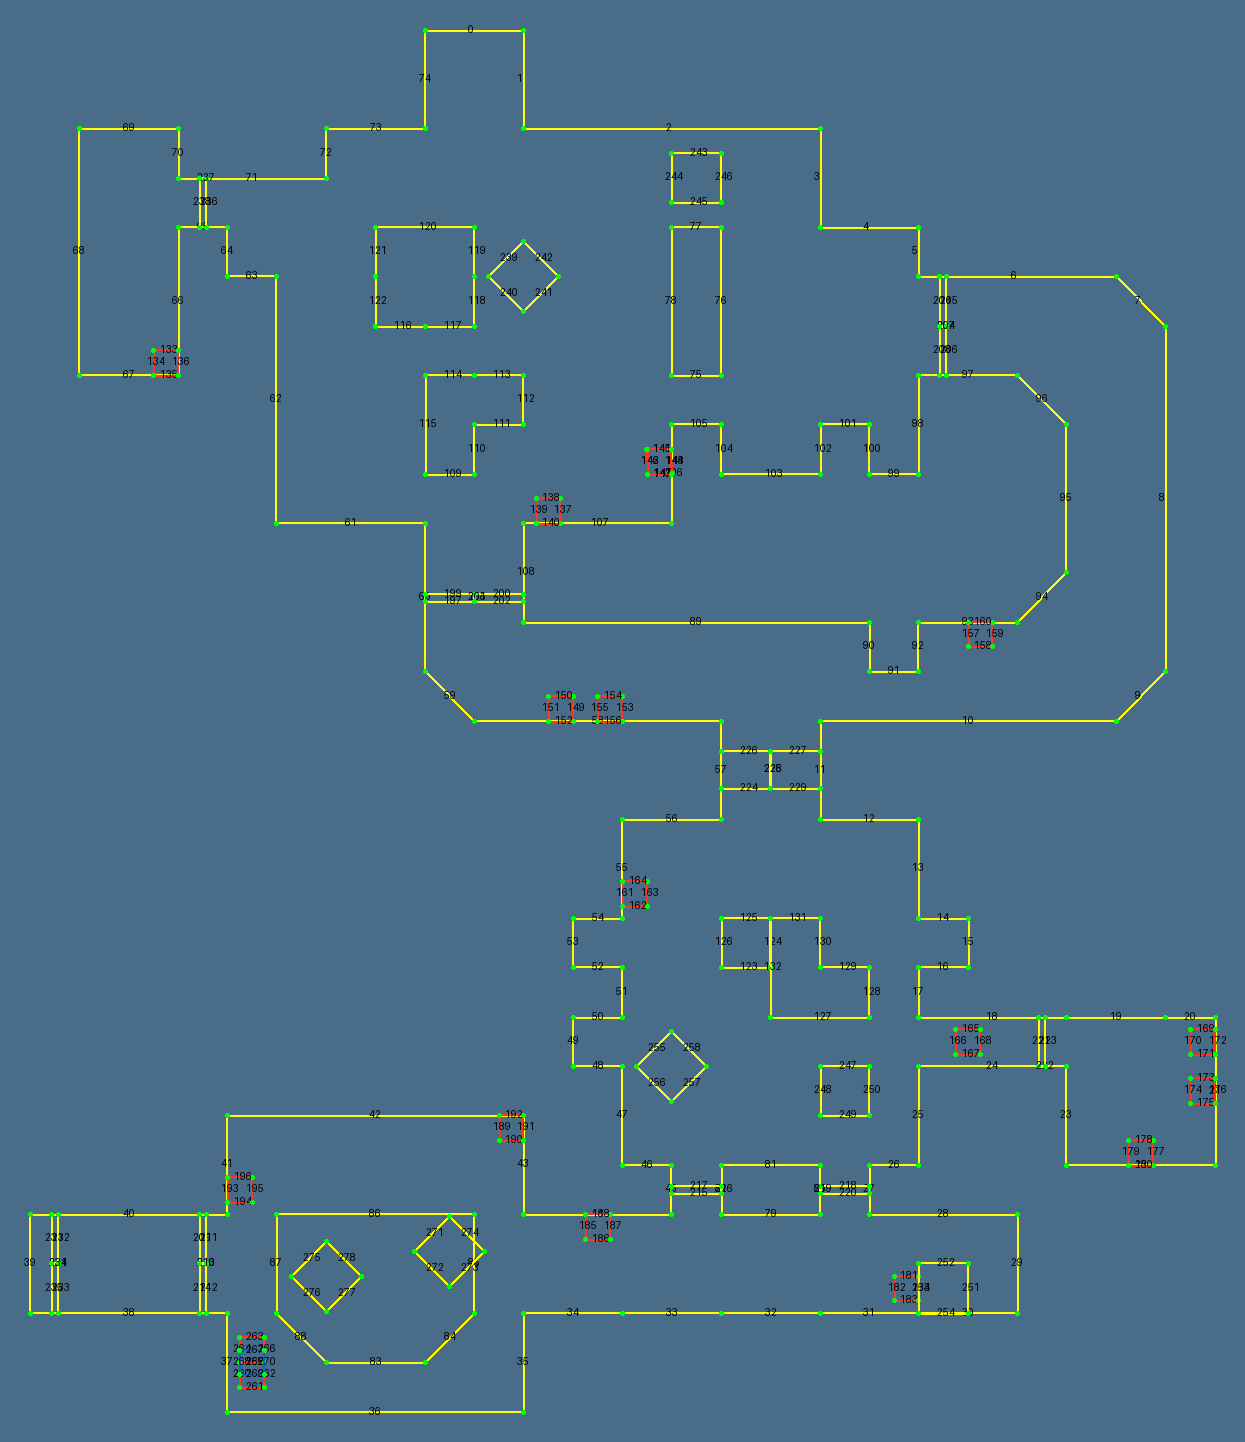
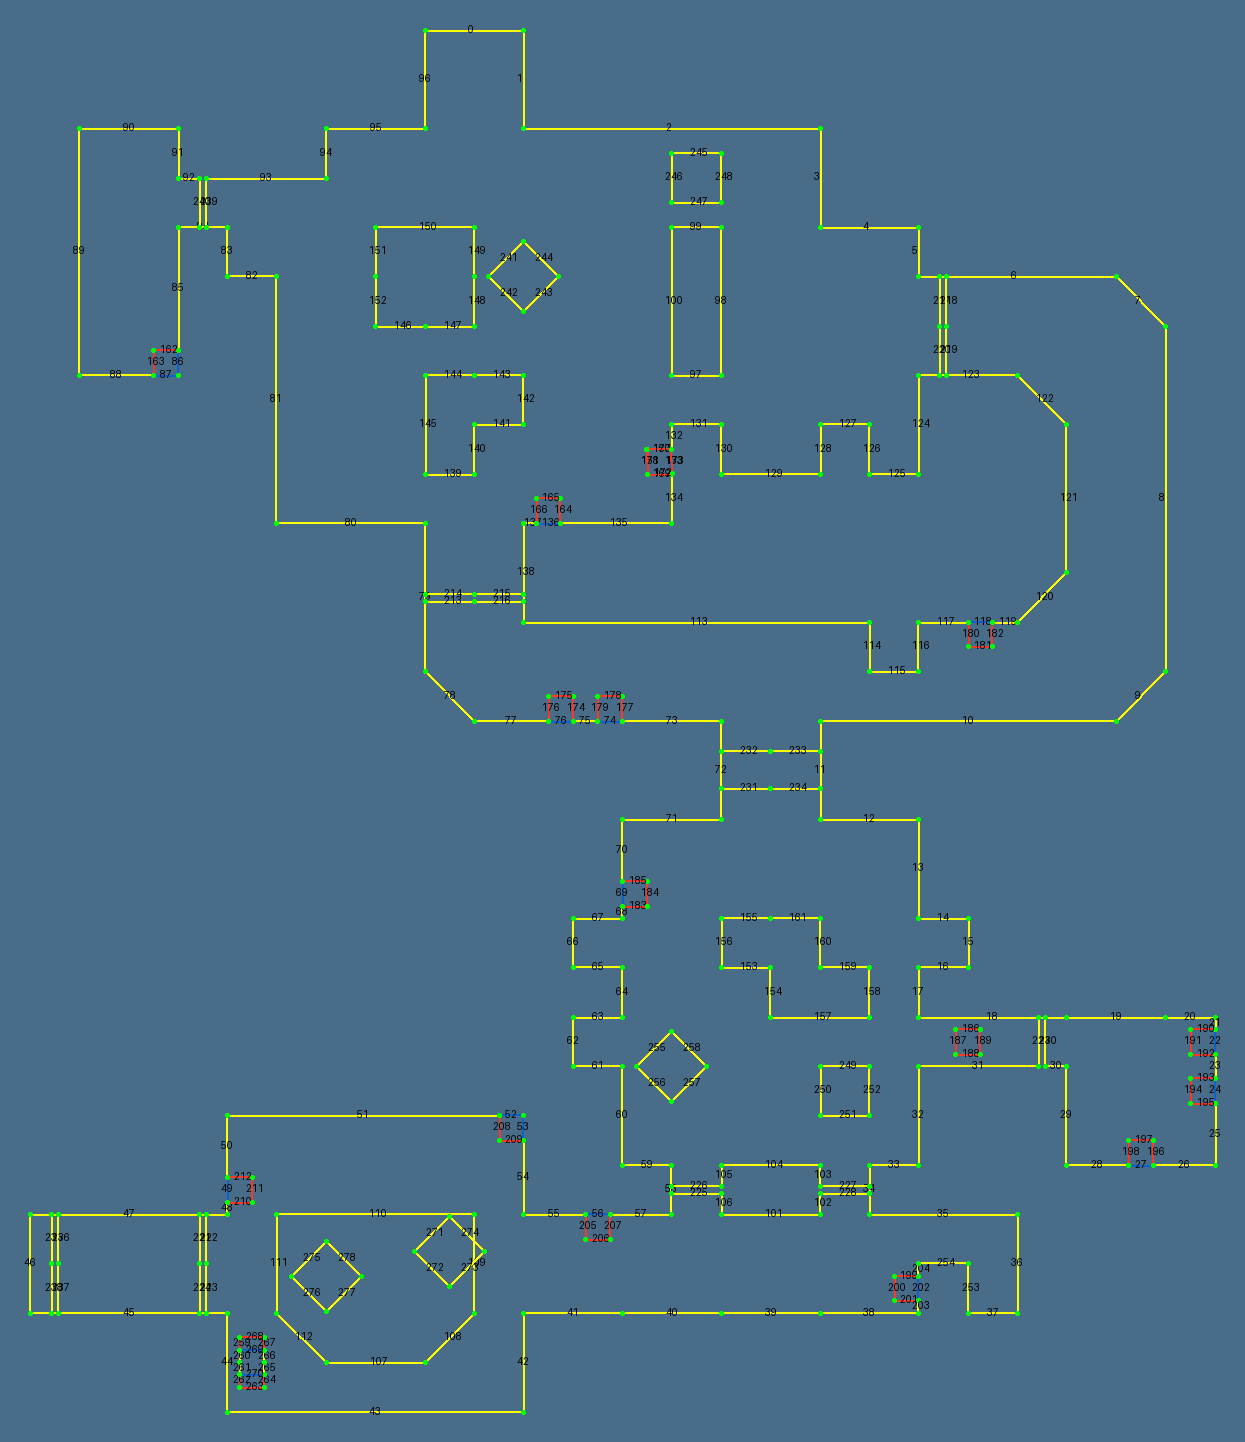
_tuplesToLines fix 1

diff --git a/src/algebraFunctions.py b/src/algebraFunctions.py
@@ -93,29 +93,40 @@ def isInside(xA, yA, xB, yB, xC, yC, xD, yD):
     Returns True if the segment (xA, yA) - (xB, yB) is fully inside the segment (xC, yC) - (xD, yD).
     The segments are assumed to be collinear.
     """
-    return (min(xC, xD) <= xA and xB <= max(xC, xD) and
-            min(yC, yD) <= yA and yB <= max(yC, yD))
+    # Check for horizontal line
+    if yA == yB and yC == yD:
+        return min(xC, xD) <= min(xA, xB) and max(xA, xB) <= max(xC, xD)
+    # Check for vertical line
+    elif xA == xB and xC == xD:
+        return min(yC, yD) <= min(yA, yB) and max(yA, yB) <= max(yC, yD)
+    else:
+        return (min(xC, xD) <= min(xA, xB) and max(xA, xB) <= max(xC, xD) and
+                min(yC, yD) <= min(yA, yB) and max(yA, yB) <= max(yC, yD))
 
 def isAthwart(xA, yA, xB, yB, xC, yC, xD, yD):
     """
     Returns True if the two already collinear segments (xA, yA) - (xB, yB) and (xC, yC) - (xD, yD)
     are "moving" in different directions.
     """
-    return ((xA < xB and xC > xD) or (xA > xB and xC < xD) or
-            (yA < yB and yC > yD) or (yA > yB and yC < yD))
+    # Check for horizontal line
+    if yA == yB and yC == yD:
+        return ((xA < xB and xC > xD) or (xA > xB and xC < xD))
+    # Check for vertical line
+    elif xA == xB and xC == xD:
+        return ((yA < yB and yC > yD) or (yA > yB and yC < yD))
+    else:
+        return ((xA < xB and xC > xD) or (xA > xB and xC < xD) or
+                (yA < yB and yC > yD) or (yA > yB and yC < yD))
 
 
 def test():
-    from drawMap import draw_lines
-    lines = [
-        LineB3D(v1=(10, 10), v2=(10, 13)),
-        LineB3D(v1=(10, 12), v2=(10, 11)),
-    ]
-    # draw_lines(lines, show=True)
-    i = 0
-    j = 1
-    result = resolveSegmentsOverlap(lines[i].v1.x, lines[i].v1.y, lines[i].v2.x, lines[i].v2.y,
-                                    lines[j].v1.x, lines[j].v1.y, lines[j].v2.x, lines[j].v2.y)
-    print(result)
+    oldLine1 = (10, 9, 10, 6)
+    oldLine2 = (10, 7, 10, 8)
+    tuples = [(10, 9, 10, 8), (10, 7, 10, 8), (10, 7, 10, 6)]
+    for tup in tuples:
+        print(isInside(*tup, *oldLine1))
+        print(isInside(*tup, *oldLine2))
+        print(isAthwart(*oldLine1, *oldLine2))
+        print()
 
-# test()
+test()

diff --git a/src/ClassesInterim.py b/src/ClassesInterim.py
@@ -3,6 +3,7 @@ from typing import Any
 from ClassesB3D import MapB3D, CrateB3D, DoorB3D
 from algebraFunctions import resolveSegmentsOverlap, isInside, isAthwart
 from ClassesShared import Vertex, HeightType
+from drawMap import drawMap
 
 
 @dataclass
@@ -19,7 +20,7 @@ class MapInterim:
         for line in mapB3D.lines:
             self.lines.append(LineInterim(v1=line.v1, v2=line.v2, height=line.height, texture=line.texture))
         # self._removeCratesAndDoors(mapB3D.crates, mapB3D.doors)
-        # self._removeOverlaps()
+        self._removeOverlaps()
 
 
     def _removeCratesAndDoors(self, crates: list[CrateB3D], doors: list[DoorB3D]):
@@ -59,7 +60,7 @@ class MapInterim:
                     heights = set([oldLine1.height, oldLine2.height])
                     if heights == set([HeightType.TOP, HeightType.BOTTOM]):
                         if isAthwart(*MapInterim.lineToTuple(oldLine1), *MapInterim.lineToTuple(oldLine2)):
-                            # raise Exception("Athwart TOP and BOTTOM")
+                            raise Exception("Athwart TOP and BOTTOM")
                             pass
                         else:
                             height = HeightType.FULL
@@ -103,7 +104,8 @@ class MapInterim:
                     j += 1
                     continue
                 else:
-                    print(i, j, resolved)
+                    print(i, j, (self.lineToTuple(self.lines[i]), self.lineToTuple(self.lines[j])), "->\n     ", resolved)
+                    # drawMap(self, wait=True)
                     oldLine1 = self.lines[i]
                     oldLine2 = self.lines[j]
                     del self.lines[j]

diff --git a/src/drawMap.py b/src/drawMap.py
@@ -1,8 +1,11 @@
 from PIL import Image, ImageDraw, ImageFont
-from ClassesInterim import MapInterim
 from ClassesShared import HeightType
+from typing import TYPE_CHECKING
+if TYPE_CHECKING:
+    from ClassesInterim import MapInterim
 
-def draw_lines(map: MapInterim, show=True, name=None, resolution=1280, frame=30):
+
+def drawMap(map: 'MapInterim', show=True, name=None, resolution=1280, frame=30, wait=False):
     # Calculate min and max coordinates
     min_x = min(min(line.v1.x, line.v2.x) for line in map.lines)
     max_x = max(max(line.v1.x, line.v2.x) for line in map.lines)
@@ -48,4 +51,5 @@ def draw_lines(map: MapInterim, show=True, name=None, resolution=1280, frame=30)
         img.show()
     if (name):
         img.save(f'drawings/{name}.png')
-
+    if wait:
+        input("PRESS ANY KEY")

diff --git a/src/convert.py b/src/convert.py
@@ -1,9 +1,9 @@
 from loadFromJava import loadB3DMap
-from drawMap import draw_lines
+from drawMap import drawMap
 from ClassesInterim import MapInterim
 
 
 for idx in range(1, 2):
     map = loadB3DMap(idx)
     map = MapInterim(map)
-    draw_lines(map, name=f'c1m{idx}', show=False)
+    drawMap(map, name=f'c1m{idx}', show=False)
